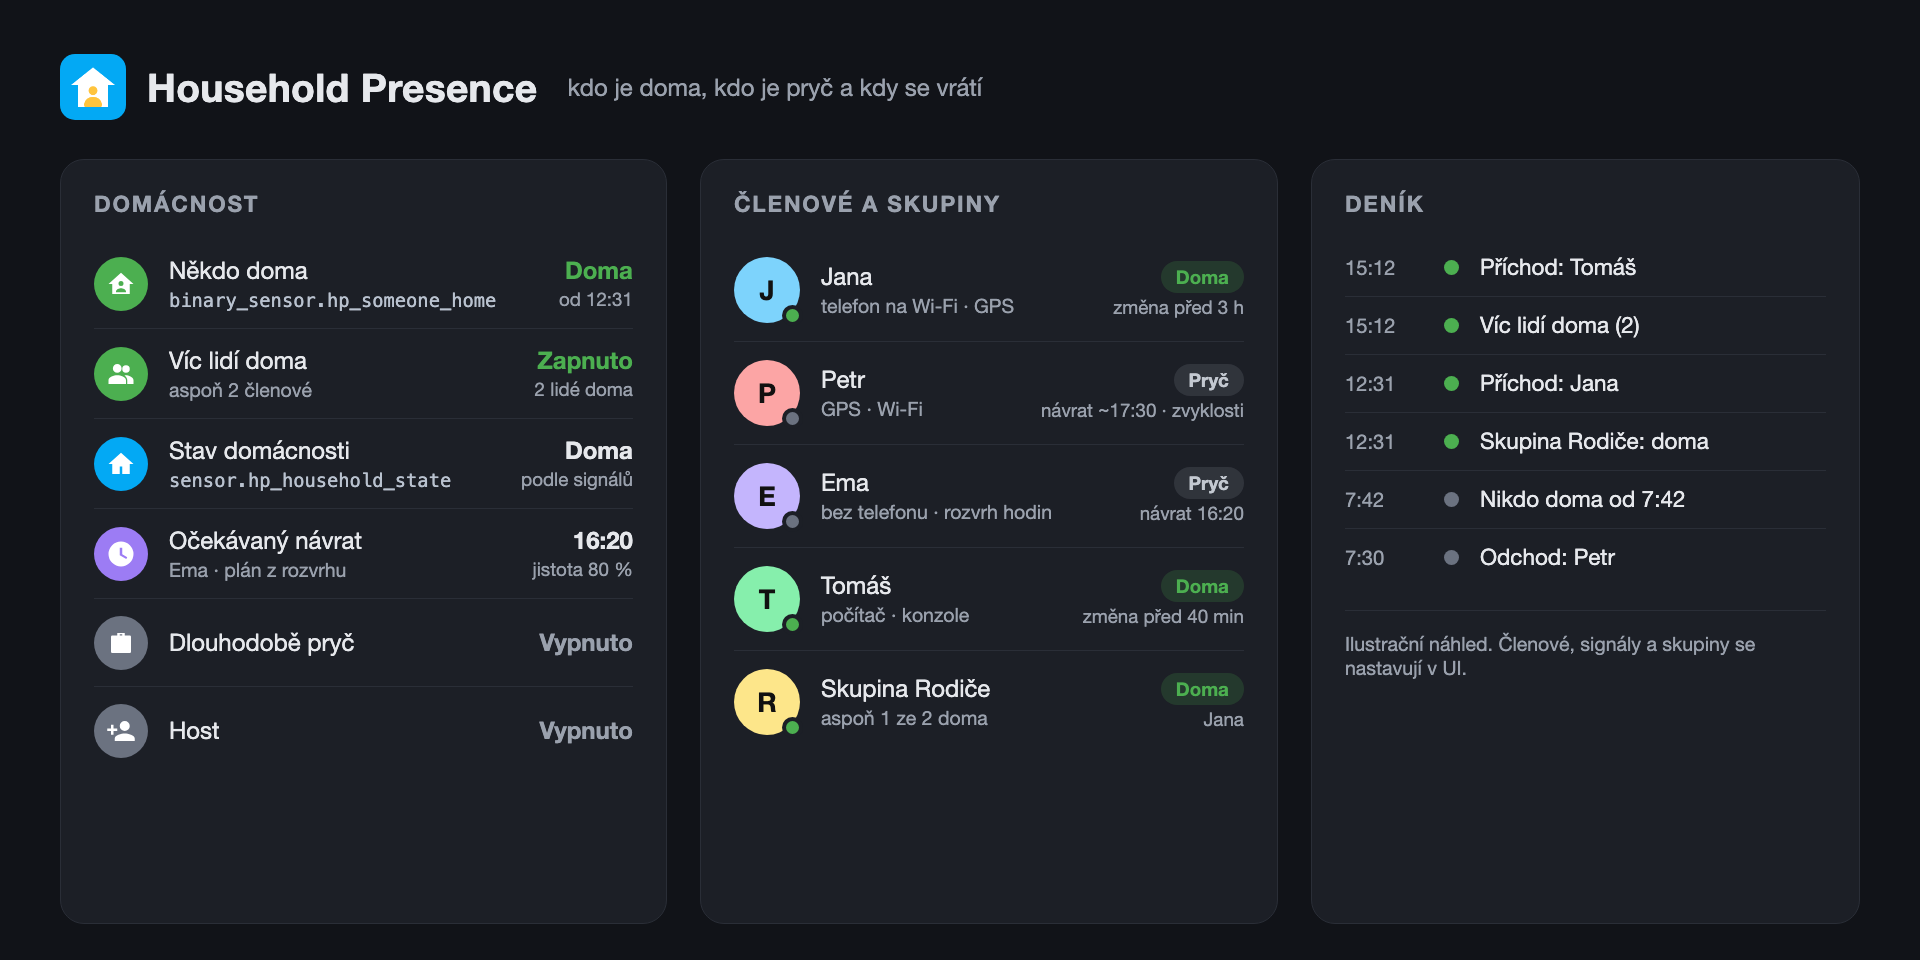
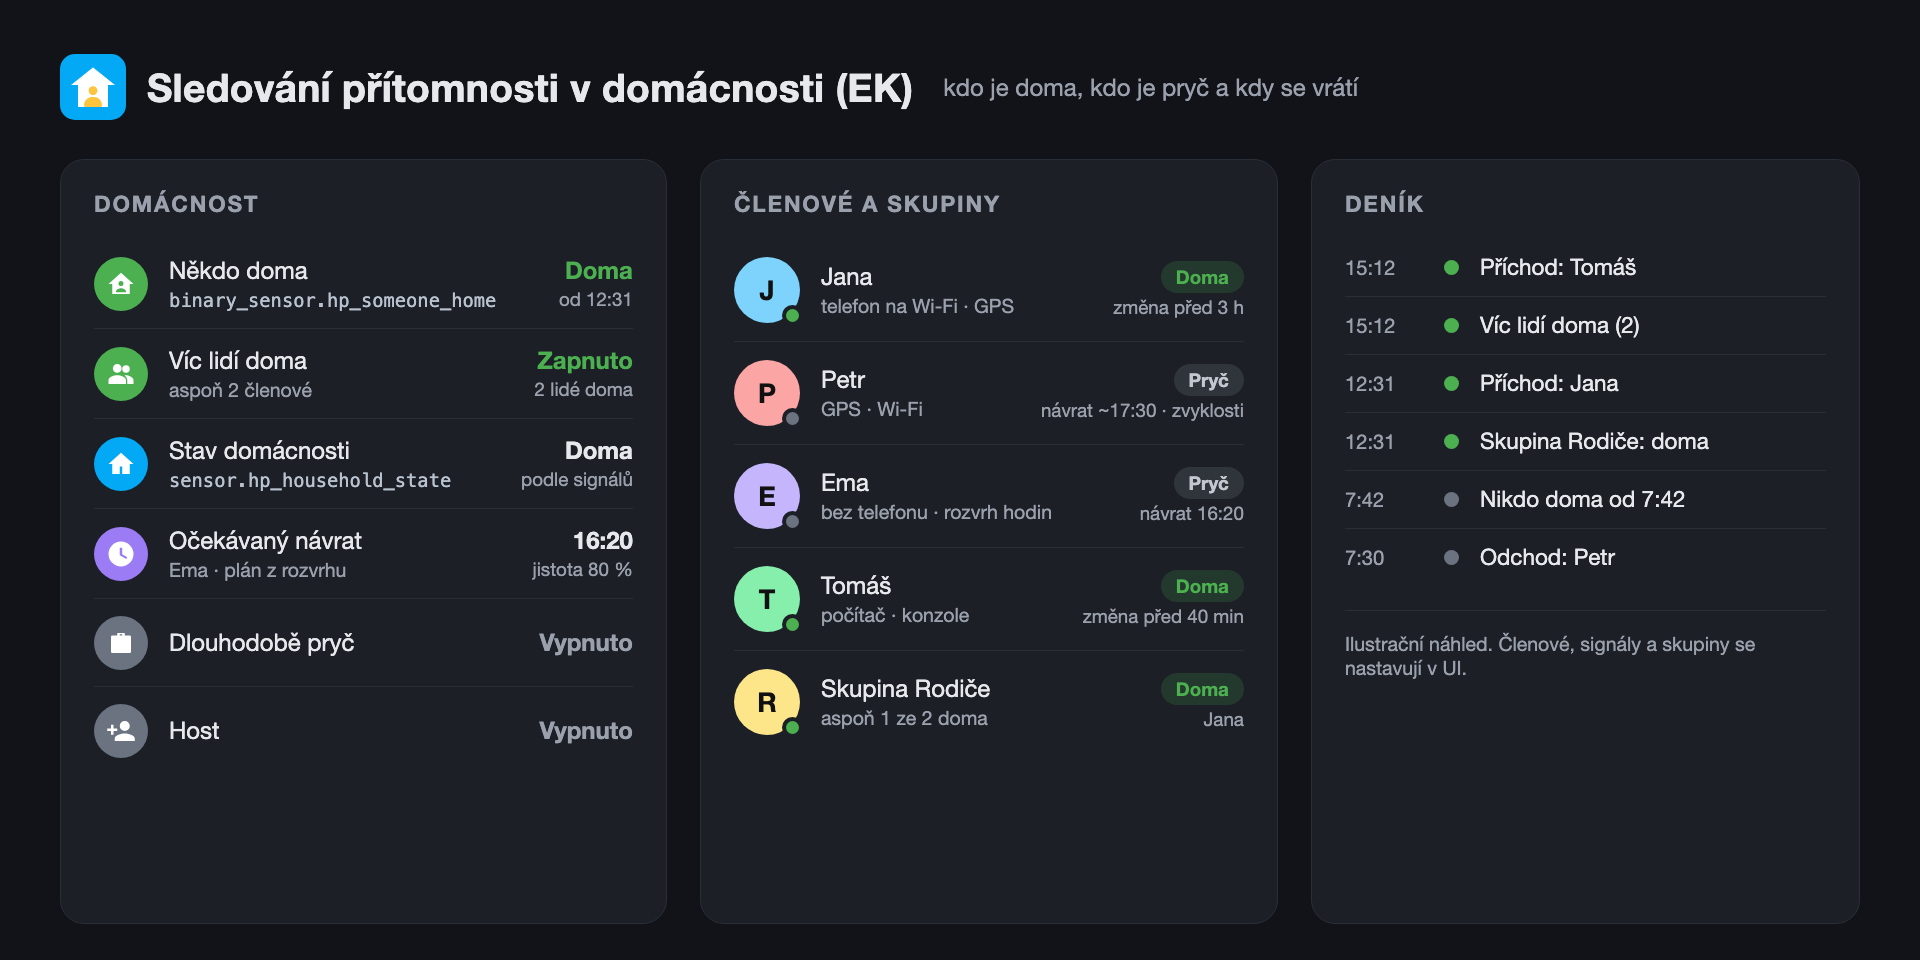
Release v0.3.1: nový název Sledování přítomnosti v domácnosti (EK)
- název v hacs.json, manifest.json, README a config flow
- náhled docs/preview.png s novým názvem
- doména, entity a zařízení beze změny

Changed region(s): [[0.0625, 0.0625, 0.7188, 0.125]]

diff --git a/custom_components/household_presence/logbook.py b/custom_components/household_presence/logbook.py
@@ -24,7 +24,7 @@ def async_describe_events(
     def describe(event: Event) -> dict[str, Any]:
         data = event.data
         description: dict[str, Any] = {
-            LOGBOOK_ENTRY_NAME: data.get("name") or "Household Presence",
+            LOGBOOK_ENTRY_NAME: data.get("name") or "Sledování přítomnosti v domácnosti (EK)",
             LOGBOOK_ENTRY_MESSAGE: data.get("message", ""),
         }
         if data.get("entity_id"):

diff --git a/README.md b/README.md
@@ -1,4 +1,4 @@
-# Household Presence
+# Sledování přítomnosti v domácnosti (EK)
 
 [![HACS Custom](https://img.shields.io/badge/HACS-Custom-orange.svg)](https://github.com/hacs/integration)
 [![Release](https://img.shields.io/github/v/release/elvisek2020/hacs-household_presence)](https://github.com/elvisek2020/hacs-household_presence/releases)
@@ -16,7 +16,7 @@ Integrace pro Home Assistant, která z entit, které už máte (osoby, trackery 
 
 Integrace nic neřídí. Poskytuje stabilní sadu entit, na kterou se napojí topení, světla, alarm nebo notifikace. Všechno běží lokálně, poloha se neukládá.
 
-![Household Presence — náhled](docs/preview.png)
+![Sledování přítomnosti v domácnosti (EK) — náhled](docs/preview.png)
 
 ## Předpoklady a závislosti
 
@@ -30,7 +30,7 @@ Integrace nic neřídí. Poskytuje stabilní sadu entit, na kterou se napojí to
 
 1. HACS → tři tečky vpravo nahoře → **Custom repositories**
 2. Vlož URL `https://github.com/elvisek2020/hacs-household_presence`, kategorie **Integration**
-3. Nainstaluj **Household Presence**
+3. Nainstaluj **Sledování přítomnosti v domácnosti (EK)**
 4. Restartuj Home Assistant a přidej ji v Nastavení → Zařízení a služby → Přidat integraci. Zadáš název domácnosti a zpoždění odchodu.
 
 HACS nabízí aktualizace z GitHub releases.

diff --git a/CHANGELOG.md b/CHANGELOG.md
@@ -5,6 +5,14 @@ text vydání na GitHubu — a ten Home Assistant / HACS ukazuje v okně aktuali
 
 Nejnovější verze je nahoře.
 
+## v0.3.1 — 2026-11-05
+
+### 🎨 Vzhled
+
+- Integrace se nově jmenuje **Sledování přítomnosti v domácnosti (EK)** (HACS, Zařízení a služby, README). Doména `household_presence`, entity a zařízení zůstávají beze změny.
+
+Po aktualizaci restartuj Home Assistant.
+
 ## v0.3.0 — 2026-10-14
 
 ### ✨ Novinky
